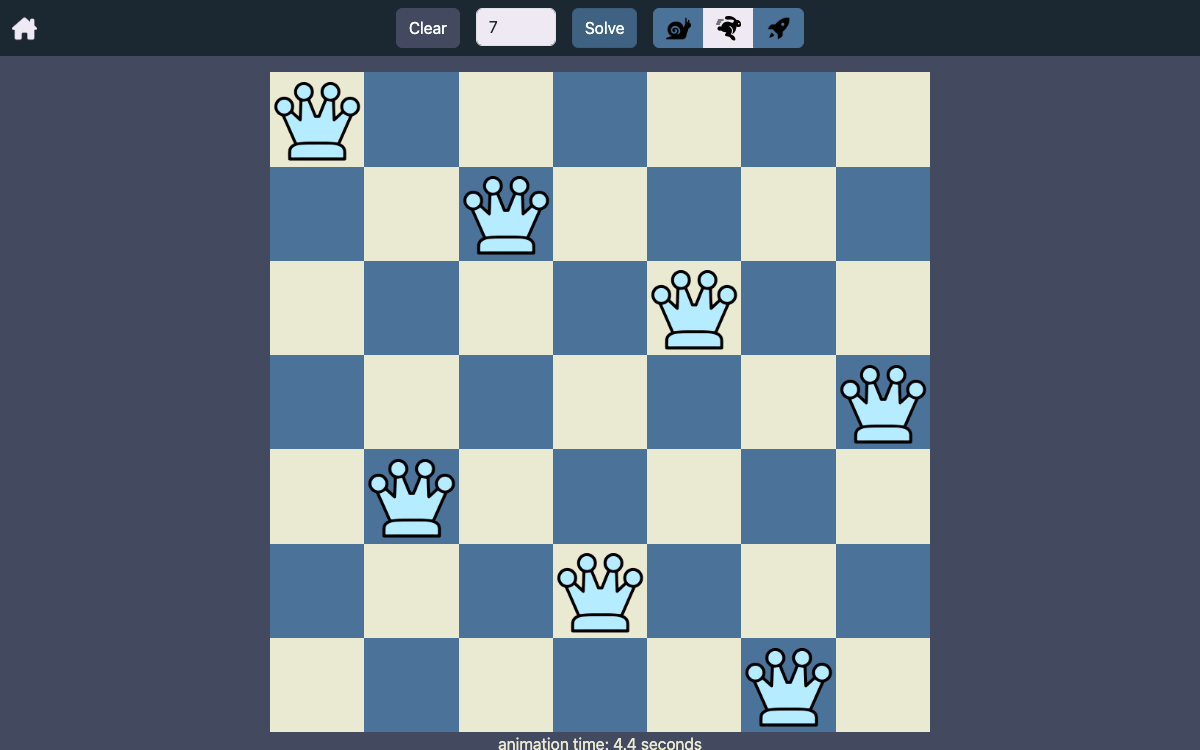
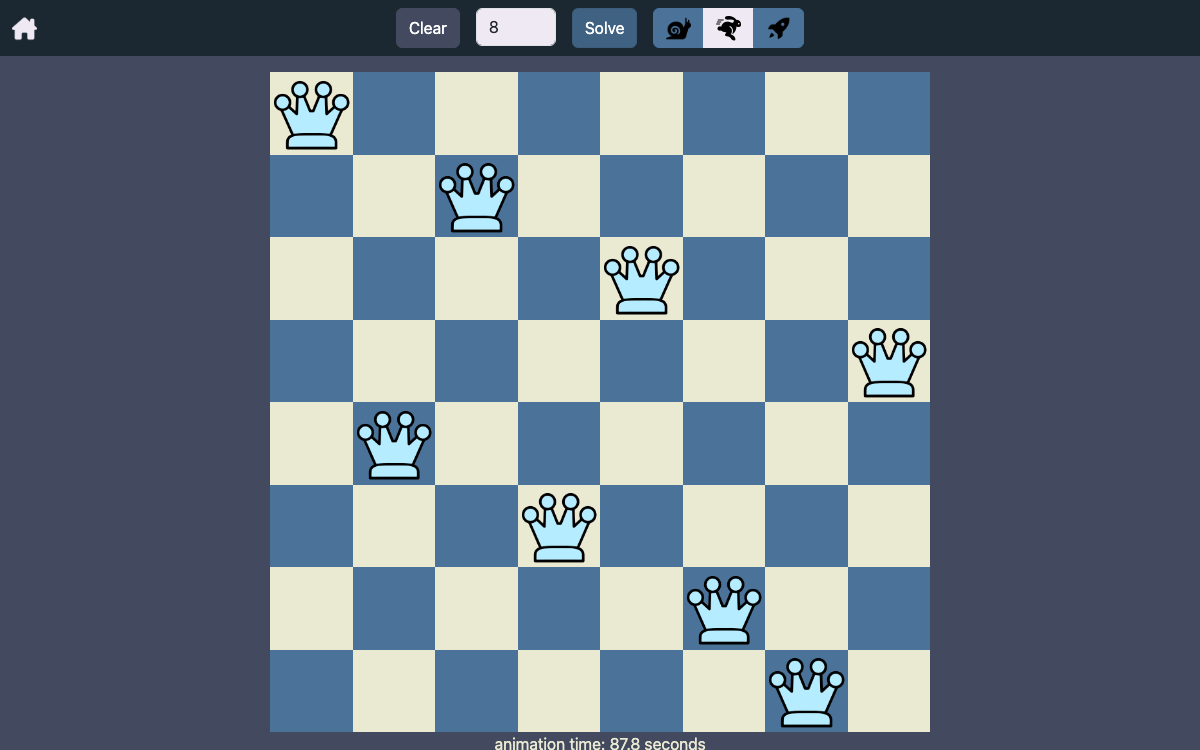
Fit hero to viewport height
Scale the hero from available height and update the N-Queens thumbnail with a solved 8x8 board.\n\nCo-authored-by: Copilot <223556219+Copilot@users.noreply.github.com>

Changed region(s): [[0.2158, 0.092, 0.8017, 1.0]]

diff --git a/src/custom.scss b/src/custom.scss
@@ -109,11 +109,12 @@ a {
 
 .hero-section {
   position: relative;
-  min-height: 100svh;
+  height: 100svh;
+  min-height: 580px;
   display: grid;
   place-items: center;
   overflow: hidden;
-  padding: 7.5rem 1.5rem 5rem;
+  padding: 5.5rem 1.5rem 2rem;
   color: #f4f1f8;
   background:
     linear-gradient(145deg, rgba(75, 115, 153, 0.08), transparent 45%),
@@ -153,9 +154,9 @@ a {
 
 .portrait-frame {
   position: relative;
-  width: clamp(250px, 35vw, 430px);
+  width: clamp(210px, 36vh, 380px);
   aspect-ratio: 1;
-  margin-bottom: clamp(2rem, 5vw, 3.25rem);
+  margin-bottom: clamp(1rem, 2.5vh, 2rem);
   overflow: hidden;
   background: #1c2831;
   border: 1px solid rgba(255, 255, 255, 0.12);
@@ -180,7 +181,7 @@ a {
 }
 
 .hero-kicker {
-  margin: 0 0 0.65rem;
+  margin: 0 0 clamp(0.35rem, 1vh, 0.65rem);
   color: #b5cad7;
   font-size: 0.86rem;
   font-weight: 700;
@@ -192,20 +193,20 @@ a {
   max-width: 750px;
   margin: 0;
   color: #f5f2f8;
-  font-size: clamp(2.8rem, 7vw, 5.8rem);
+  font-size: clamp(2.6rem, min(5.5vw, 7vh), 5.2rem);
   font-weight: 650;
   letter-spacing: -0.065em;
   line-height: 0.98;
 }
 
 .hero-copy {
-  margin: 1.3rem 0 0;
+  margin: clamp(0.8rem, 1.8vh, 1.3rem) 0 0;
   color: #bdc5d0;
   font-size: clamp(1rem, 2vw, 1.2rem);
 }
 
 .hero-actions {
-  margin-top: 2rem;
+  margin-top: clamp(1.2rem, 2.5vh, 2rem);
   display: flex;
   gap: 0.8rem;
 }
@@ -393,11 +394,12 @@ a {
   }
 
   .hero-section {
-    padding: 6rem 1.1rem 4.5rem;
+    min-height: 620px;
+    padding: 5rem 1.1rem 2rem;
   }
 
   .portrait-frame {
-    width: min(72vw, 300px);
+    width: min(64vw, 34vh, 280px);
   }
 
   .hero-actions {
